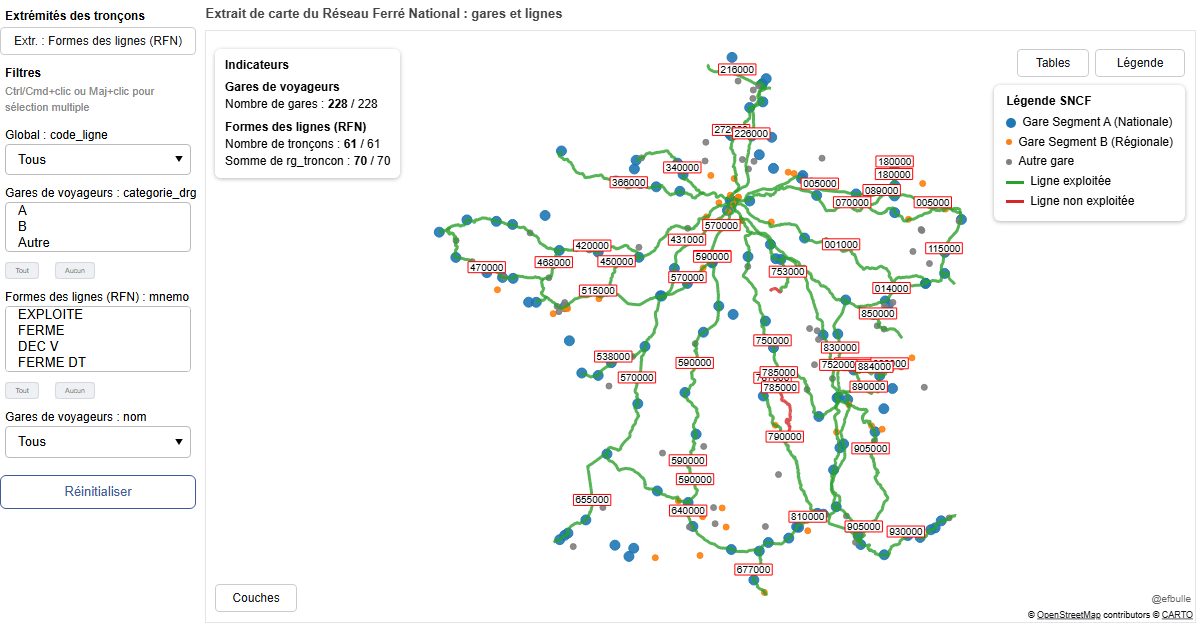
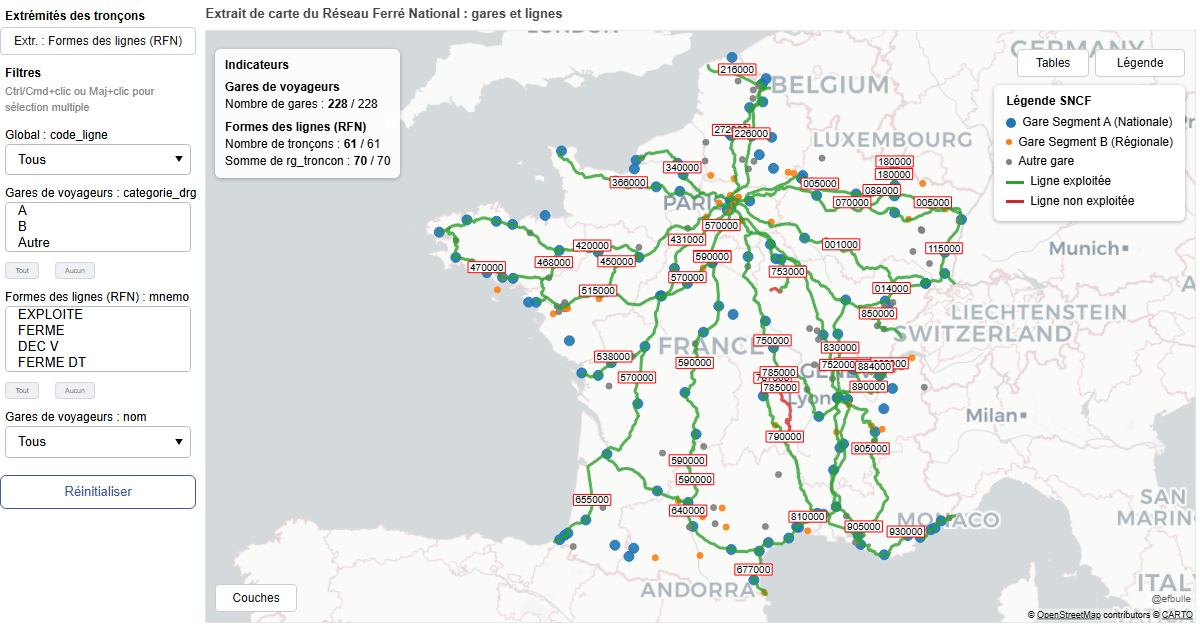
Fix flaky tile loading in make_preview.py (#9)
## Diagnostic

La capture Open Graph (`docs/preview.png`, mergée dans #8) manquait
parfois le fond de carte (tuiles). J'ai instrumenté
`scripts/make_preview.py` pour afficher les réponses HTTP ≥ 400 et les
requêtes échouées pendant le chargement, puis tracé le détail des
requêtes d'images.

**Résultat** : aucune erreur HTTP, toutes les tuiles répondent en `200`.
La cause est une course entre rendu et capture : Bokeh ajuste
automatiquement le zoom après le premier rendu, ce qui déclenche une
**seconde vague** de requêtes de tuiles juste au moment où `networkidle`
se déclenche pour la première fois. Le délai fixe de 2s qui suivait ne
laissait pas toujours le temps à cette seconde vague (ni à une
éventuelle suivante) de se terminer avant la capture — ce n'était donc
pas un problème de clé API CartoDB ni de réseau.

## Correctif

- Ajoute un écouteur `response` qui affiche `[HTTP <code>] <url>` pour
tout code ≥ 400, et un écouteur `requestfailed` qui affiche `[ÉCHEC]
<url> (<raison>)`, utile pour diagnostiquer ce genre de problème à
l'avenir.
- Remplace le délai fixe après `networkidle` par un suivi explicite des
requêtes d'images (tuiles) : on attend qu'aucune image n'ait fini de
charger depuis 1.5s (borné à 25s), ce qui couvre les vagues de tuiles
successives quel que soit leur nombre.
- Régénère `docs/preview.png`.

## Vérification

- `uv run ruff check .` / `uv run ruff format --check .` ✅
- `uv run pytest` ✅ (50 passed)
[…]

diff --git a/scripts/make_preview.py b/scripts/make_preview.py
@@ -15,9 +15,10 @@ Usage :
     uv run python scripts/make_preview.py
 """
 
+import time
 from pathlib import Path
 
-from playwright.sync_api import sync_playwright
+from playwright.sync_api import Request, Response, sync_playwright
 
 REPO_ROOT = Path(__file__).resolve().parent.parent
 DOCS_DIR = REPO_ROOT / "docs"
@@ -26,6 +27,14 @@ PREVIEW_PATH = DOCS_DIR / "preview.png"
 
 WIDTH = 1200
 HEIGHT = 627
+
+# Bokeh ajuste automatiquement le zoom après le premier rendu, ce qui
+# déclenche une seconde vague de requêtes de tuiles juste après que le
+# réseau soit redevenu inactif une première fois. On attend donc que plus
+# aucune image ne soit chargée pendant QUIET_PERIOD_S, borné par MAX_WAIT_S,
+# plutôt que de se fier à un délai fixe après "networkidle".
+QUIET_PERIOD_S = 1.5
+MAX_WAIT_S = 25.0
 
 
 def make_preview(page_path: Path = PAGE_PATH, preview_path: Path = PREVIEW_PATH) -> Path:
@@ -38,11 +47,39 @@ def make_preview(page_path: Path = PAGE_PATH, preview_path: Path = PREVIEW_PATH)
     with sync_playwright() as playwright:
         browser = playwright.chromium.launch()
         page = browser.new_page(viewport={"width": WIDTH, "height": HEIGHT})
+
+        def on_http_error(response: Response) -> None:
+            if response.status >= 400:
+                print(f"[HTTP {response.status}] {response.url}")
+
+        page.on("response", on_http_error)
+
+        last_image_activity = time.monotonic()
+
+        def on_image_activity(request: Request) -> None:
+            nonlocal last_image_activity
+            if request.resource_type == "image":
+                last_image_activity = time.monotonic()
+
+        def on_request_failed(request: Request) -> None:
+            print(f"[ÉCHEC] {request.url} ({request.failure})")
+            on_image_activity(request)
+
+        page.on("requestfinished", on_image_activity)
+        page.on("requestfailed", on_request_failed)
+
         page.goto(f"file://{page_path}")
-        # Attend la fin des requêtes réseau (dont le chargement des tuiles)
-        # puis laisse le temps au rendu Canvas de se stabiliser.
         page.wait_for_load_state("networkidle")
-        page.wait_for_timeout(2000)
+
+        # Tant que des images (tuiles) ont fini de charger il y a moins de
+        # QUIET_PERIOD_S, on continue d'attendre une nouvelle vague éventuelle.
+        deadline = time.monotonic() + MAX_WAIT_S
+        while time.monotonic() - last_image_activity < QUIET_PERIOD_S:
+            if time.monotonic() >= deadline:
+                print(f"[Attention] Délai maximal ({MAX_WAIT_S}s) atteint, capture anticipée.")
+                break
+            page.wait_for_timeout(200)
+
         page.screenshot(path=str(preview_path))
         browser.close()
 
